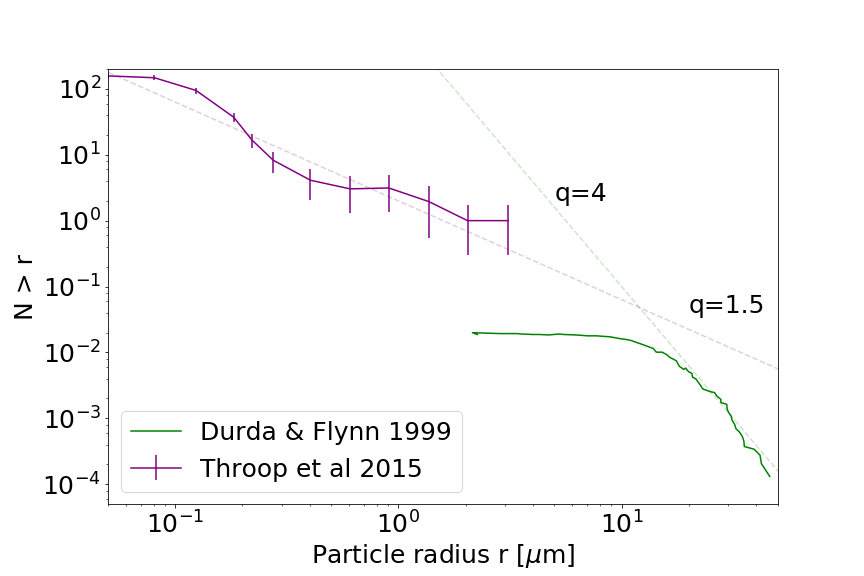
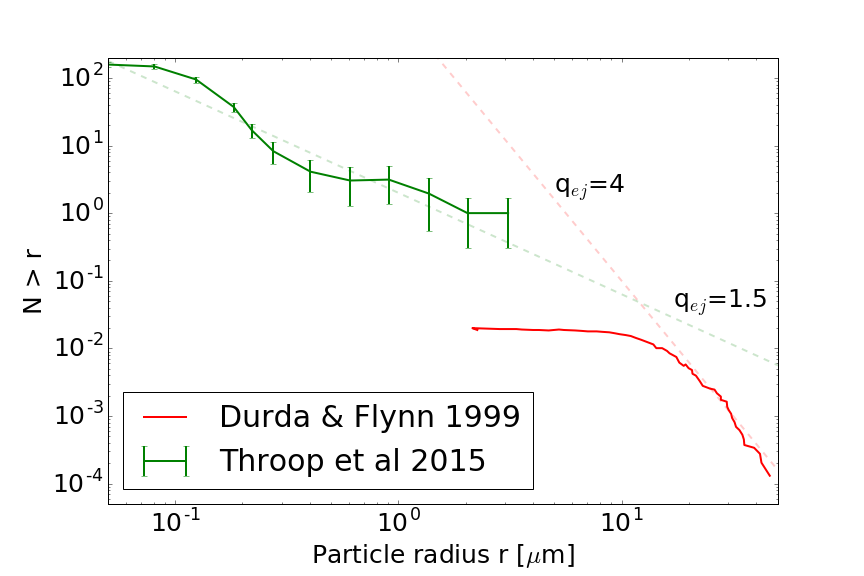
New files for plotting CCLDAS impact data (for proposal renewal, using old data).

diff --git a/ccldas_df99.py b/ccldas_df99.py
@@ -102,21 +102,24 @@ if (DO_PLOT_ALL_Q):
         plt.plot(r, n, label='n(r), q={}'.format(q_i))
         plt.plot(r, ngtr)
 
+lw = 2  # linewidth
+
 plt.rc('font', size=25)
 hbt.figsize((12,8))
-color_df99 = 'green'
-color_hbt = 'purple'
+color_df99 = 'red'
+color_hbt = 'green'
 
 #plt.plot(data_hbt['Diameter'], data_hbt['Number'], label = 'Throop et al 2015', color=color_hbt)
-plt.plot(data_df99['Diameter']/2, data_df99['Number'], label = 'Durda & Flynn 1999', color=color_df99)
+plt.plot(data_df99['Diameter']/2, data_df99['Number'], label = 'Durda & Flynn 1999', 
+         color=color_df99, linewidth=lw)
 plt.errorbar(data_hbt['Diameter']/2, data_hbt['Number'], yerr=data_hbt['Error'], label = 'Throop et al 2015', 
-             color = color_hbt)
+             color = color_hbt, linewidth=lw)
 
 n_q2 = r**(-2)
 n_q15 = r**(-1.5)
 n_q4 = r**(-4)
-plt.plot(r, n_q15*2, color=color_hbt, linestyle='--', alpha = 0.2)
-plt.plot(r, n_q4*1000, color=color_df99, linestyle='--', alpha = 0.2)
+plt.plot(r, n_q15*2, color=color_hbt, linestyle='--', alpha = 0.2, linewidth=lw)
+plt.plot(r, n_q4*1000, color=color_df99, linestyle='--', alpha = 0.2, linewidth=lw)
         
 #plt.plot(r, np.cumsum(n))
 
@@ -126,10 +129,10 @@ plt.ylabel('N > r')
 plt.xlabel('Particle radius r [$\mu$m]')
 plt.xlim((0.05, 50))
 plt.ylim((5e-5, 200))
-plt.legend()
-plt.text(5, 2, 'q=4')
+plt.legend(loc = 'lower left')
+plt.text(5, 2, 'q$_{ej}$=4')
 #plt.text(0.04, 10, 'q=1.5')
-plt.text(20, 0.04, 'q=1.5')
+plt.text(17, 0.04, 'q$_{ej}$=1.5')
 
 
 file_out = dir_home + 'ccldas_df99.png'
